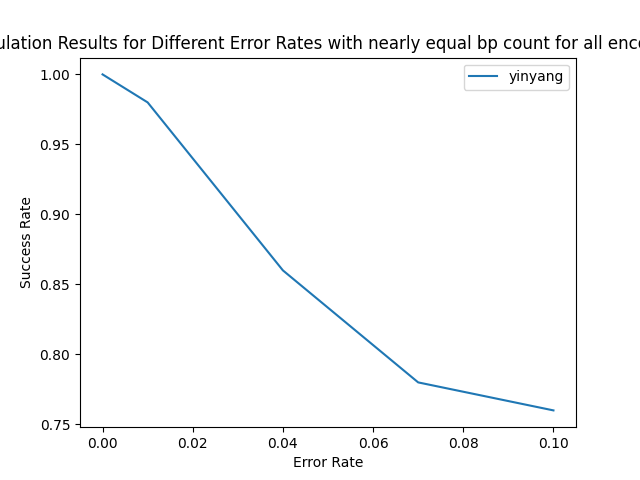
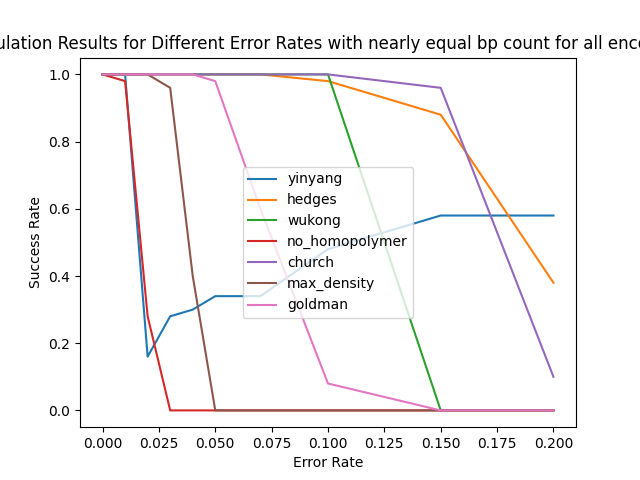
woking so for

diff --git a/dnabyte/sequencing/iid/sequence.py b/dnabyte/sequencing/iid/sequence.py
@@ -1,5 +1,6 @@
 import random
 from dnabyte.sequence import SimulateSequencing
+from random import randrange
 
 class IID(SimulateSequencing):
     """
@@ -31,7 +32,6 @@ class IID(SimulateSequencing):
             
             while i < len(new_seq):
                 rand_val = random.random()
-                
                 # Substitution error
                 if rand_val < sub_rate:
                     error_counter += 1
@@ -39,18 +39,18 @@ class IID(SimulateSequencing):
                     new_seq[i] = new_base
                     i += 1
                     
-                # Insertion error
-                elif rand_val < sub_rate + ins_rate:
-                    error_counter += 1
-                    insert_base = random.choice(['A', 'C', 'G', 'T'])
-                    new_seq.insert(i, insert_base)
-                    i += 2  # Skip the inserted base
+                # # Insertion error
+                # elif rand_val < sub_rate + ins_rate:
+                #     error_counter += 1
+                #     insert_base = random.choice(['A', 'C', 'G', 'T'])
+                #     new_seq.insert(i, insert_base)
+                #     i += 2  # Skip the inserted base
                     
-                # Deletion error
-                elif rand_val < sub_rate + ins_rate + del_rate:
-                    error_counter += 1
-                    new_seq.pop(i)
-                    # Don't increment i, check next base at same position
+                # # Deletion error
+                # elif rand_val < sub_rate + ins_rate + del_rate:
+                #     error_counter += 1
+                #     new_seq.pop(i)
+                #     # Don't increment i, check next base at same position
                     
                 else:
                     i += 1

diff --git a/simulations/Cost_analysis_myway.py b/simulations/Cost_analysis_myway.py
@@ -420,7 +420,7 @@ def default_values_of_encoding(encoding):
 
 
 if __name__ == '__main__':
-    encodings = ['yinyang']
+    encodings = ['yinyang', 'hedges', 'wukong', 'no_homopolymer', 'church', 'max_density', 'goldman']
 
     base_params = {
         'filename': 'Bohemian_Rhapsody_Lyrics.txt',
@@ -443,7 +443,7 @@ if __name__ == '__main__':
         "iid_deletion_rate": 0.0,
     }
     
-    error_rates = [0.0, 0.01, 0.04, 0.07, 0.1,]  # Example error rates to test
+    error_rates = [0.0, 0.01, 0.02, 0.03, 0.04, 0.05, 0.07, 0.1, 0.15, 0.2]  # Example error rates to test
 
     defoultparams = {}      
     for encoding in encodings:
@@ -460,7 +460,7 @@ if __name__ == '__main__':
 
     final_params = encode_and_count_with_error_correction(encodings, defoultparams, noECencodinglengths)
 
-    encodings = ['yinyang']
+    encodings = ['yinyang', 'hedges', 'wukong', 'no_homopolymer', 'church', 'max_density', 'goldman']
 
     sim_resoults = simulate_cost_analysis(encodings, final_params, error_rates)
 
